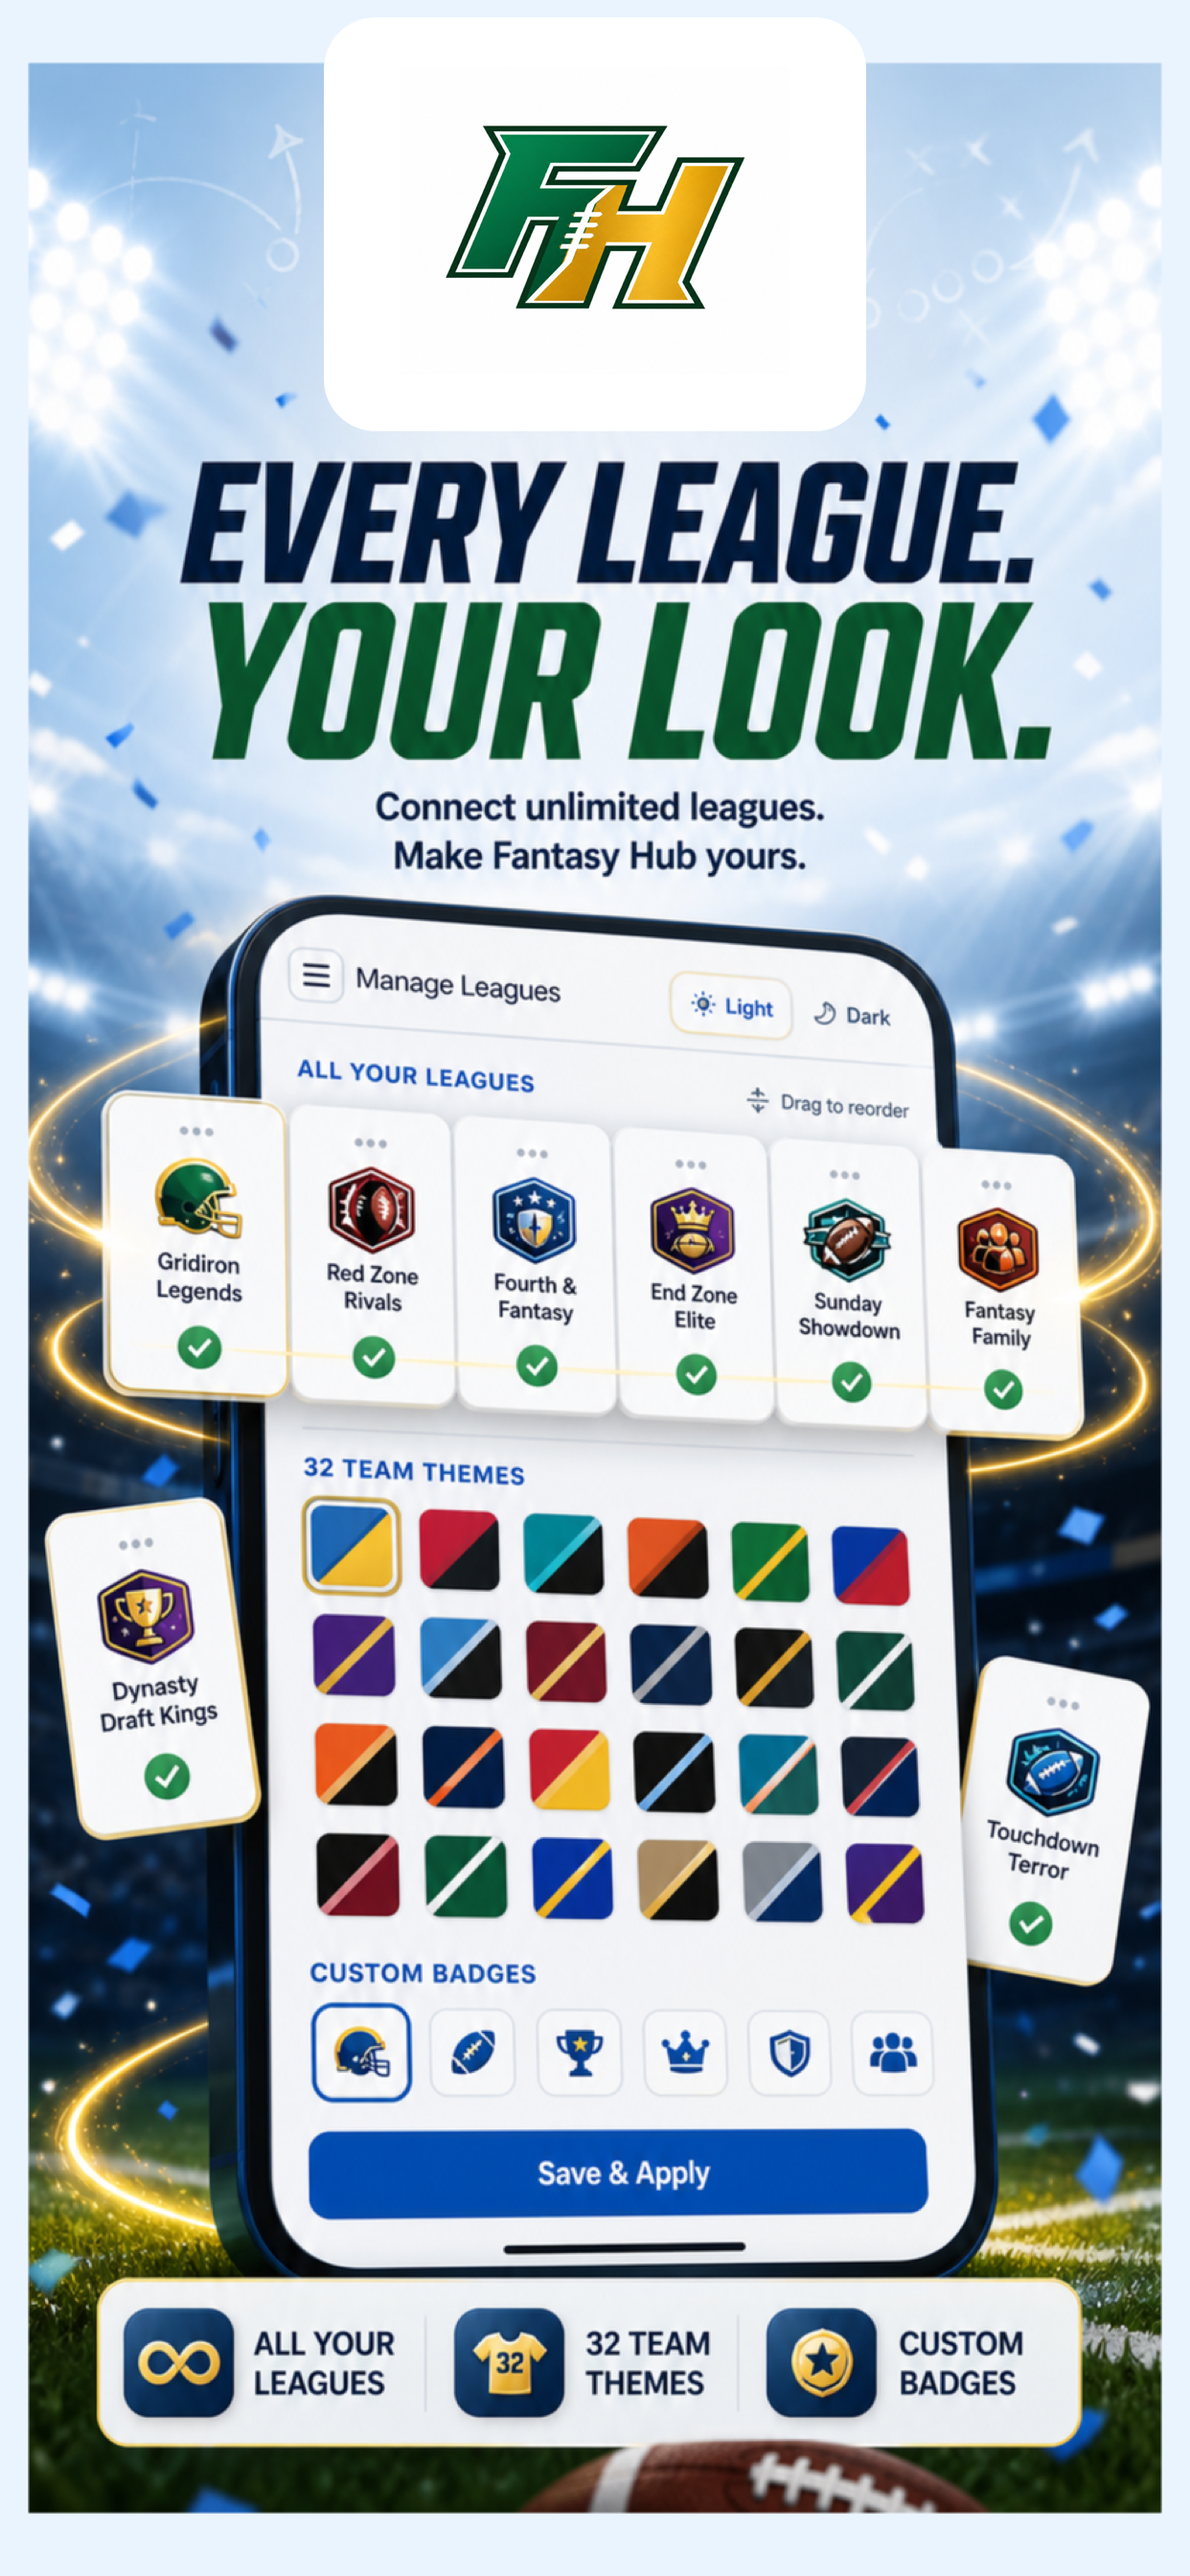
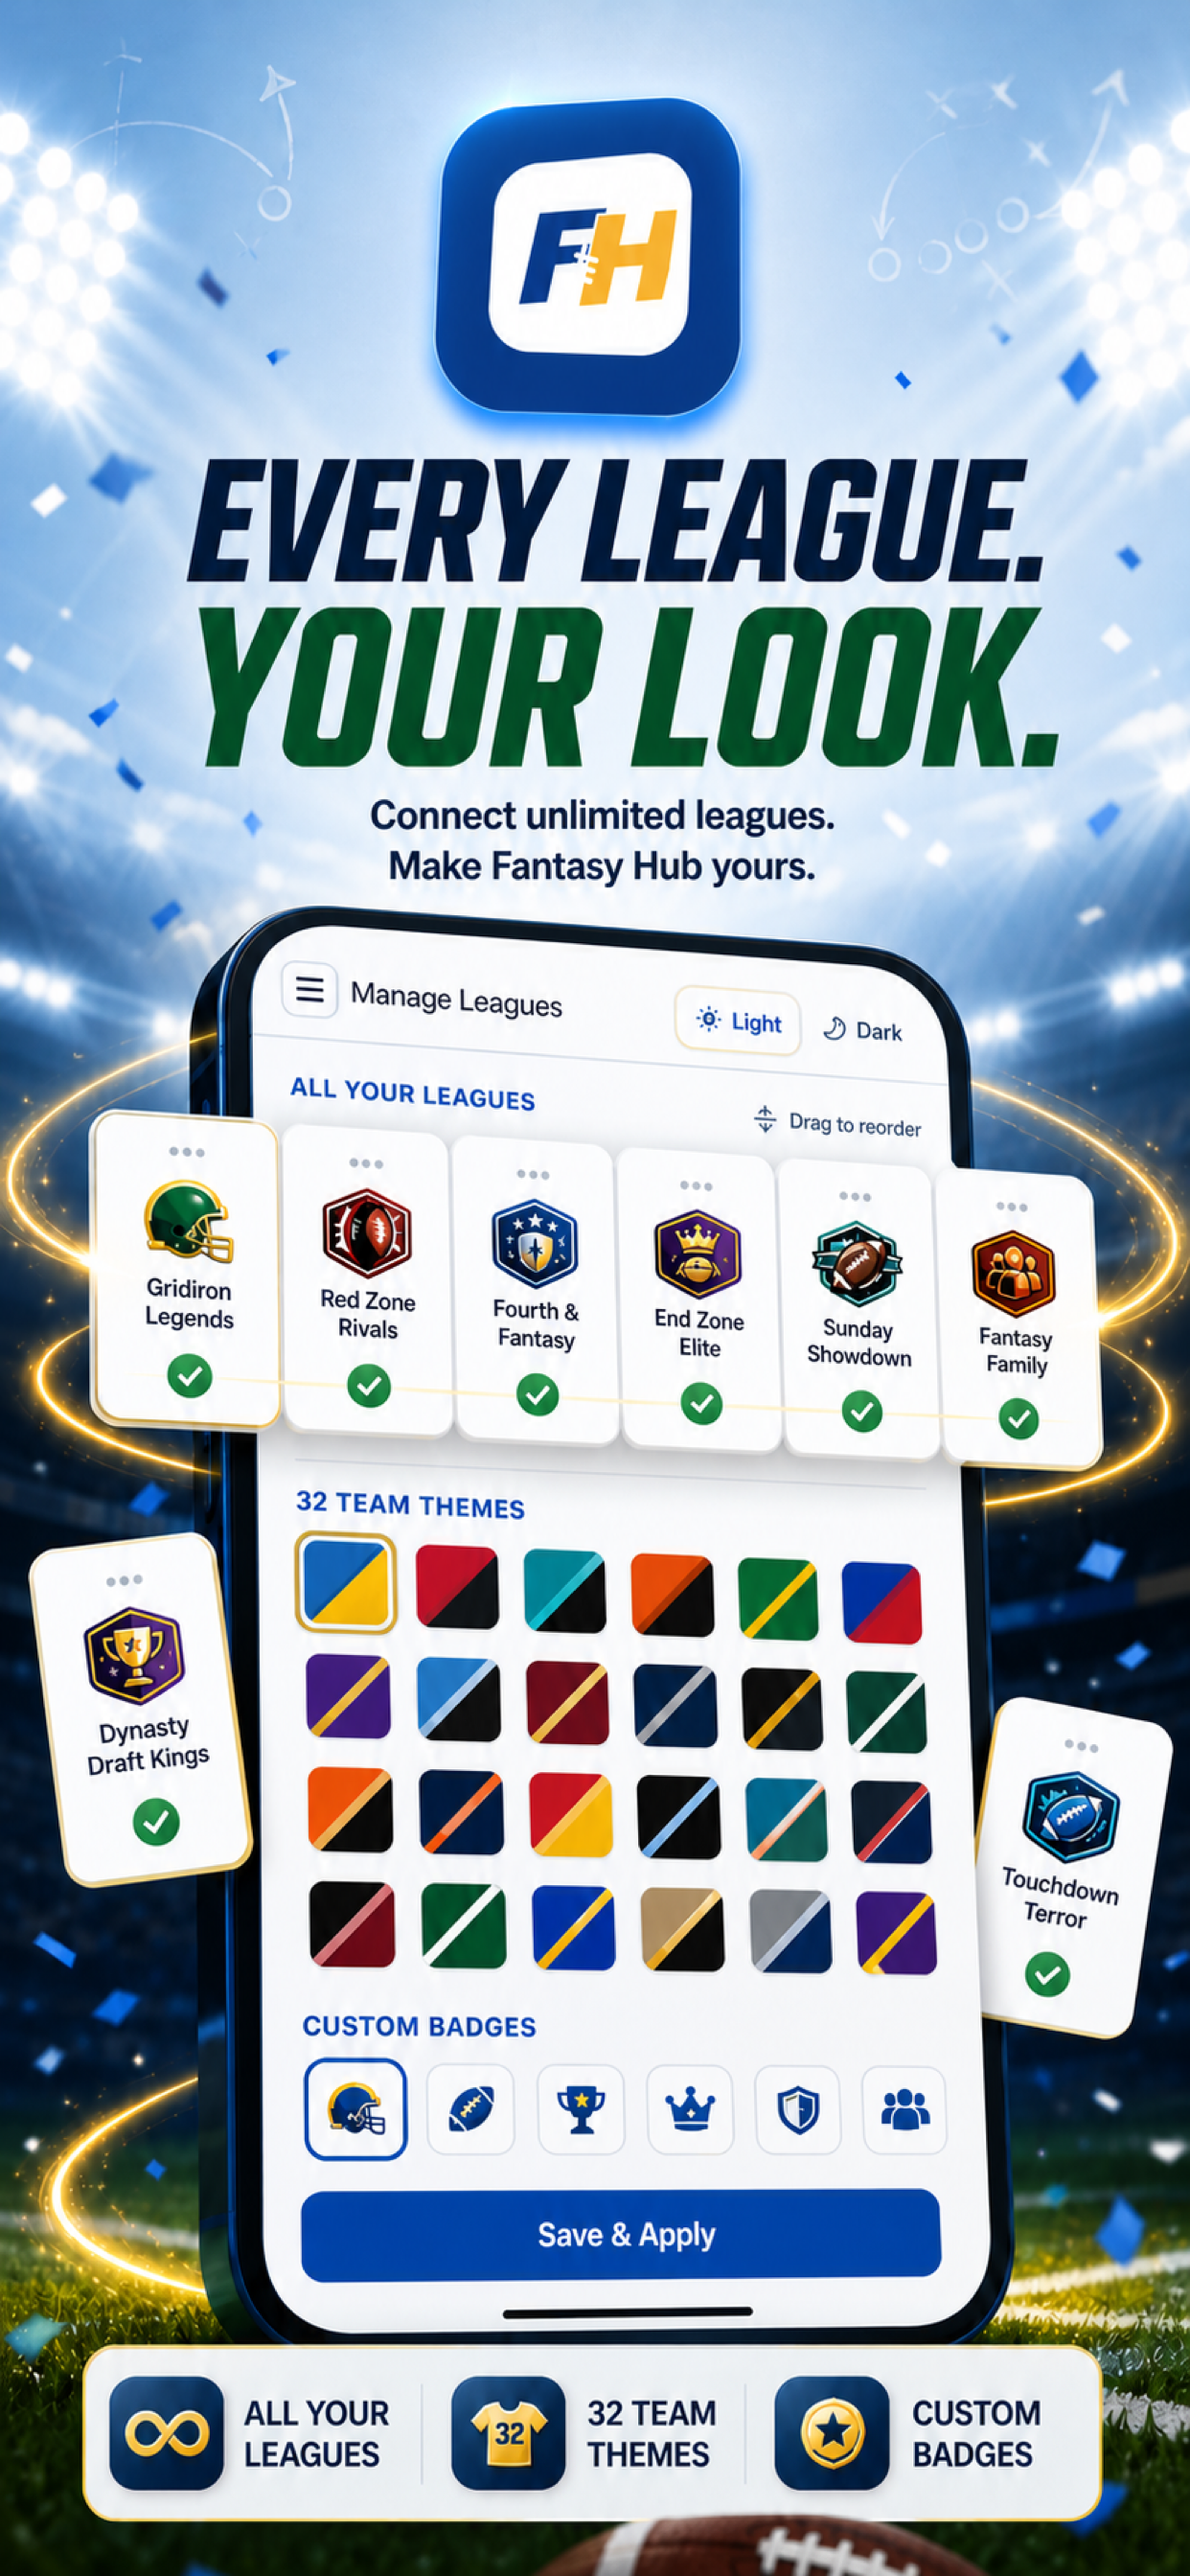
Integrate blue FH mark into App Store creatives

diff --git a/tools/refresh-app-store-branding.swift b/tools/refresh-app-store-branding.swift
@@ -2,7 +2,7 @@ import AppKit
 import Foundation
 
 let root = URL(fileURLWithPath: FileManager.default.currentDirectoryPath)
-let logoURL = root.appendingPathComponent("public/fantasy-hub-logo.png")
+let logoURL = root.appendingPathComponent("public/marketing/app-store/fh-blue-app-mark.png")
 let screenshots = root.appendingPathComponent("public/marketing/app-store/iphone-6.5")
 let masters = root.appendingPathComponent("public/marketing/app-store/generated-masters")
 
@@ -29,13 +29,9 @@ func refresh(_ url: URL) throws {
   NSGraphicsContext.current = NSGraphicsContext(bitmapImageRep: bitmap)
   source.draw(in: NSRect(x: 0, y: 0, width: 1242, height: 2688))
 
-  // The committed raster is the exact product mark. Its white background
-  // cleanly replaces the older baked logo while keeping the ad art unchanged.
-  let logoFrame = NSRect(x: 418, y: 2298, width: 406, height: 320)
-  let plate = NSBezierPath(roundedRect: NSRect(x: 338, y: 2238, width: 566, height: 432), xRadius: 54, yRadius: 54)
-  NSColor.white.setFill()
-  plate.fill()
-  logo.draw(in: logoFrame, from: .zero, operation: .sourceOver, fraction: 1)
+  // The blue app mark is composited directly into the existing scene. It owns
+  // its internal white tile; no extra white brand plate is added around it.
+  logo.draw(in: NSRect(x: 421, y: 2294, width: 400, height: 400), from: .zero, operation: .sourceOver, fraction: 1)
   NSGraphicsContext.restoreGraphicsState()
 
   guard let data = bitmap.representation(using: .png, properties: [:]) else { return }

diff --git a/docs/IOS_LAUNCH.md b/docs/IOS_LAUNCH.md
@@ -43,8 +43,8 @@ The archive is written to `build/FantasyHub.xcarchive` and can then be validated
 - The app builds successfully for the iPhone 17 Pro simulator.
 - The production site loads inside the native web view without handing off to Safari.
 - Native app icon, launch screen, safe areas, offline handling, privacy manifest, lifecycle hooks, and custom URL scheme are configured.
-- Seven upload-ready 6.5-inch App Store screenshots are stored in `public/marketing/app-store/iphone-6.5` at 1242 × 2688. Their branding is refreshed from the same FH logo used by the product, with matching masters in `public/marketing/app-store/generated-masters`.
-- The App Store screenshot branding can be refreshed deterministically with `swift tools/refresh-app-store-branding.swift`; the tool changes only the FH brand plate and preserves the approved feature artwork.
+- Seven upload-ready 6.5-inch App Store screenshots are stored in `public/marketing/app-store/iphone-6.5` at 1242 × 2688. Each creative integrates the blue rounded-square FH app mark into its stadium scene, with matching masters in `public/marketing/app-store/generated-masters` and untouched edit sources in `public/marketing/app-store/original-masters`.
+- The canonical blue app-mark reference lives at `public/marketing/app-store/fh-blue-app-mark.png` with an editable SVG source beside it. `swift tools/refresh-app-store-branding.swift` provides a deterministic fallback compositor; the production screenshots use the higher-fidelity generated scene integration.
 - Valid Apple Development and Apple Distribution identities are installed for team `PSFU9Q2JRK`.
 - Release build 3 archives successfully at `build/FantasyHub.xcarchive` with the registered `com.fantasyhubapp.ios` provisioning profile.
 
